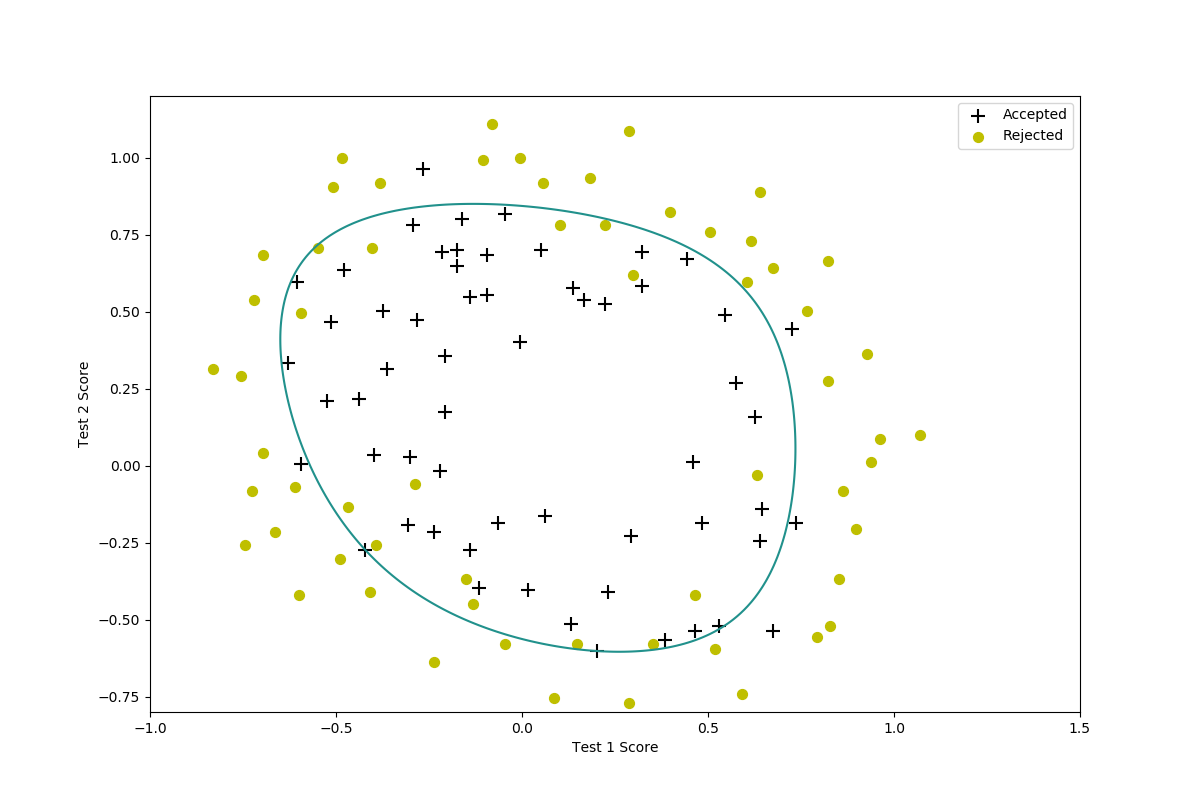
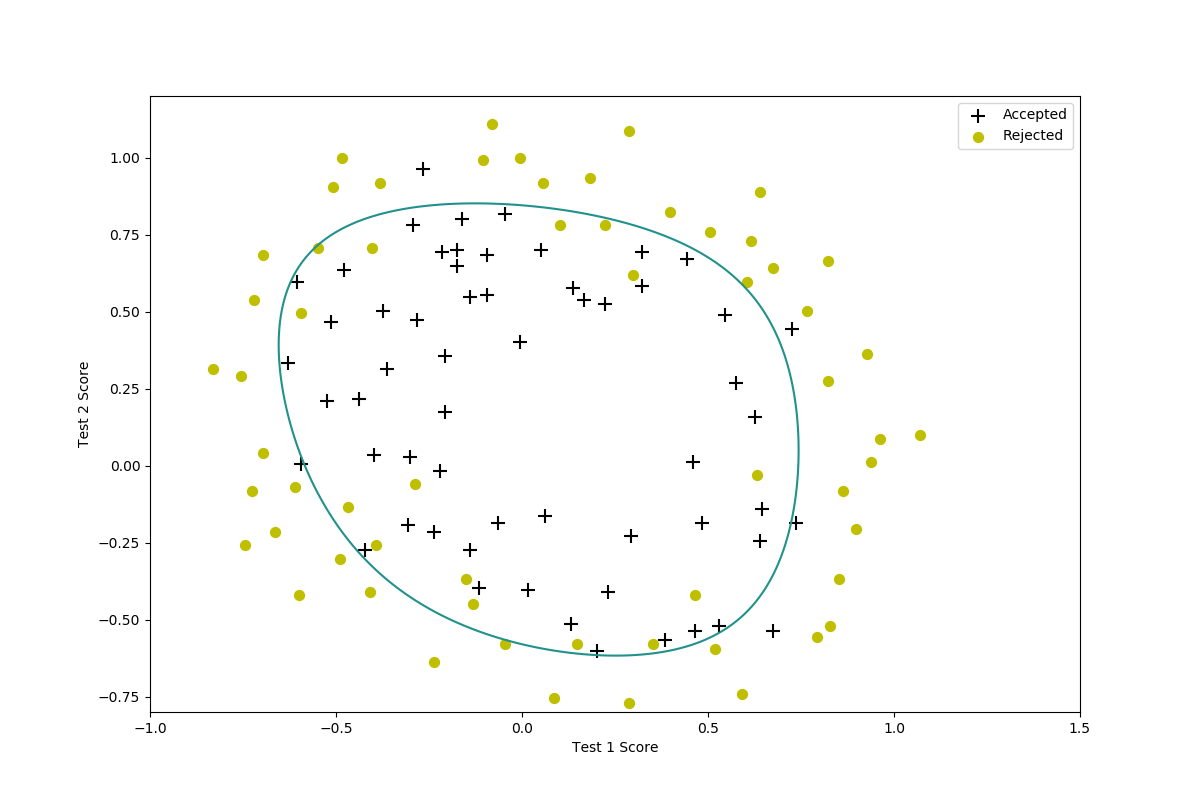
updata NG EX2-2

diff --git a/2020/11/06/NG机器学习EX2-逻辑回归2/index.html b/2020/11/06/NG机器学习EX2-逻辑回归2/index.html
@@ -101,7 +101,7 @@
 <meta property="og:image" content="http://blog.tyfuu.net/images/4%20NG%20EX2/lambda=100.png">
 <meta property="og:image" content="http://blog.tyfuu.net/images/4%20NG%20EX2/lambda=1000.png">
 <meta property="article:published_time" content="2020-11-06T02:12:32.000Z">
-<meta property="article:modified_time" content="2020-11-06T12:13:43.033Z">
+<meta property="article:modified_time" content="2020-11-07T07:55:39.412Z">
 <meta property="article:author" content="符说八道">
 <meta property="article:tag" content="分类">
 <meta name="twitter:card" content="summary">
@@ -498,7 +498,7 @@
 <h3 id="计算代价函数和梯度"><a href="#计算代价函数和梯度" class="headerlink" title="计算代价函数和梯度"></a>计算代价函数和梯度</h3><p>sigmoid函数在第一个练习中已经实现了,现在我们需要做的,是更新代价函数和梯度,加入正则化项。<br>$J(\theta) = \frac{1}{m}\sum_{i=1}^{m}[-y^{i}log(h_{\theta}(X^{(i)}))-(1-y^{i})log(1-h_{\theta}(x^{(i)}))] + \frac{\lambda}{2m} \sum_{j=1}^{n}\theta_{j}^{2}$<br><figure class="highlight plain"><table><tr><td class="gutter"><pre><span class="line">1</span><br><span class="line">2</span><br><span class="line">3</span><br><span class="line">4</span><br><span class="line">5</span><br><span class="line">6</span><br><span class="line">7</span><br></pre></td><td class="code"><pre><span class="line">def costFunction(theta,X,y,lambdaa):</span><br><span class="line"></span><br><span class="line">    h &#x3D; sigmoid(X.dot(theta.T))</span><br><span class="line">    J &#x3D;(- y.T .dot(np.log(h))-(1-y).T.dot(np.log(1-h) ))&#x2F;len(X)</span><br><span class="line">    reg &#x3D; theta[2:].T .dot(theta[2:] )* lambdaa &#x2F; (2*len(X))</span><br><span class="line">    J &#x3D; J + reg</span><br><span class="line">    return J</span><br></pre></td></tr></table></figure></p>
 <p>$\frac{\partial J(\theta)}{\partial \theta_{0}} = \frac{1}{m}\sum_{i=1}^{m}(h_{\theta}(x^{(i)})-y^{(i)})x_{0}^{(i)}$</p>
 <p>$\frac{\partial J(\theta)}{\partial \theta_{j=1,2…n}} = \frac{1}{m}\sum_{i=1}^{m}(h_{\theta}(x^{(i)})-y^{(i)})x_{j}^{(i)} + \frac{\lambda}{m}\theta_{j}$</p>
-<figure class="highlight plain"><table><tr><td class="gutter"><pre><span class="line">1</span><br><span class="line">2</span><br><span class="line">3</span><br><span class="line">4</span><br><span class="line">5</span><br><span class="line">6</span><br><span class="line">7</span><br></pre></td><td class="code"><pre><span class="line">def gradFunction(theta,X,y,lambdaa):</span><br><span class="line">    grad &#x3D; np.zeros(len(theta))</span><br><span class="line">    theta &#x3D; theta.reshape(1,len(theta))</span><br><span class="line">    h &#x3D; sigmoid(X.dot(theta.T))</span><br><span class="line">    reg &#x3D; lambdaa * theta &#x2F; len(X)</span><br><span class="line">    grad &#x3D; X.T.dot ((h-y)) &#x2F; len(X) + reg.T</span><br><span class="line">    return grad</span><br></pre></td></tr></table></figure>
+<figure class="highlight plain"><table><tr><td class="gutter"><pre><span class="line">1</span><br><span class="line">2</span><br><span class="line">3</span><br><span class="line">4</span><br><span class="line">5</span><br><span class="line">6</span><br><span class="line">7</span><br><span class="line">8</span><br></pre></td><td class="code"><pre><span class="line">def gradFunction(theta,X,y,lambdaa):</span><br><span class="line">    grad &#x3D; np.zeros(len(theta))</span><br><span class="line">    theta &#x3D; theta.reshape(1,len(theta))</span><br><span class="line">    h &#x3D; sigmoid(X.dot(theta.T))</span><br><span class="line">    reg &#x3D; lambdaa * theta &#x2F; len(X)</span><br><span class="line">    reg[0][0] &#x3D; 0</span><br><span class="line">    grad &#x3D; X.T.dot ((h-y)) &#x2F; len(X) + reg.T</span><br><span class="line">    return grad</span><br></pre></td></tr></table></figure>
 <h3 id="predict"><a href="#predict" class="headerlink" title="predict"></a>predict</h3><figure class="highlight plain"><table><tr><td class="gutter"><pre><span class="line">1</span><br><span class="line">2</span><br><span class="line">3</span><br><span class="line">4</span><br><span class="line">5</span><br><span class="line">6</span><br><span class="line">7</span><br><span class="line">8</span><br><span class="line">9</span><br><span class="line">10</span><br><span class="line">11</span><br></pre></td><td class="code"><pre><span class="line">def predict(theta,X):</span><br><span class="line">    probality &#x3D; sigmoid(X.dot(theta.T))</span><br><span class="line">    return [1 if x &gt;&#x3D; 0.5 else 0 for x in probality]</span><br><span class="line"></span><br><span class="line">result2 &#x3D; opt.fmin_tnc(func&#x3D;costFunction, x0&#x3D;theta2, fprime&#x3D;gradFunction, args&#x3D;(X2, y2, lambdaa))</span><br><span class="line">theta_min &#x3D; result2[0]</span><br><span class="line">predictions &#x3D; predict(theta_min,X2)</span><br><span class="line">correct &#x3D; [1 if (a &#x3D;&#x3D; 1 and b &#x3D;&#x3D; 1) or (a &#x3D;&#x3D; 0 and  b &#x3D;&#x3D; 0) else 0 for (a,b) in zip(predictions,y2)]</span><br><span class="line"></span><br><span class="line">accuracy &#x3D; sum(map(int,correct)) * 100 &#x2F;len(correct)</span><br><span class="line">print(&#39;accuracy &#x3D; &#123;0:.2f&#125;%&#39;.format(accuracy))</span><br></pre></td></tr></table></figure>
 <p>算出来的结果为:<br><figure class="highlight plain"><table><tr><td class="gutter"><pre><span class="line">1</span><br></pre></td><td class="code"><pre><span class="line">accuracy &#x3D; 83.05%</span><br></pre></td></tr></table></figure></p>
 <h3 id="decision-boundary"><a href="#decision-boundary" class="headerlink" title="decision boundary"></a>decision boundary</h3><p>下面代码有些不好理解:<br><figure class="highlight plain"><table><tr><td class="gutter"><pre><span class="line">1</span><br><span class="line">2</span><br><span class="line">3</span><br><span class="line">4</span><br><span class="line">5</span><br><span class="line">6</span><br><span class="line">7</span><br><span class="line">8</span><br><span class="line">9</span><br><span class="line">10</span><br><span class="line">11</span><br><span class="line">12</span><br><span class="line">13</span><br><span class="line">14</span><br><span class="line">15</span><br><span class="line">16</span><br><span class="line">17</span><br><span class="line">18</span><br><span class="line">19</span><br><span class="line">20</span><br><span class="line">21</span><br><span class="line">22</span><br></pre></td><td class="code"><pre><span class="line">#返回num个均匀分布的样本，在[start, stop]</span><br><span class="line">x &#x3D; np.linspace(-1, 1.5, 250)</span><br><span class="line"></span><br><span class="line">#   [X,Y] &#x3D; meshgrid(x,y)</span><br><span class="line"># 将向量x和y定义的区域转换成矩阵X和Y,</span><br><span class="line"># 其中矩阵X的行向量是向量x的简单复制，而矩阵Y的列向量是向量y的简单复制</span><br><span class="line"># 假设x是长度为m的向量，y是长度为n的向量，则最终生成的矩阵X和Y的维度都是 nm（注意不是mn）</span><br><span class="line"></span><br><span class="line">xx, yy &#x3D; np.meshgrid(x, x)</span><br><span class="line"></span><br><span class="line">#下面计算这250个点的z值(也就是等高线的z值,z值相同的连成线,就可以形成边界)</span><br><span class="line">z &#x3D; np.array(mapFeature(xx.ravel(), yy.ravel(), 6))</span><br><span class="line">#上面的xx.ravel()和yy.ravel()都是250*250&#x3D;62500维度的向量,将他们映射为(62500,28)</span><br><span class="line">z &#x3D; z @ theta_min # z是(62500,1)</span><br><span class="line">z &#x3D; z.reshape(xx.shape)</span><br><span class="line">#reshape后,变成了(250,250),这样相当于有250个点的z值</span><br><span class="line"></span><br><span class="line">plotData(data2)</span><br><span class="line"># contour画出等高线</span><br><span class="line">plt.contour(xx, yy, z, 0)</span><br><span class="line">plt.ylim(-.8, 1.2)</span><br><span class="line">plt.show()</span><br></pre></td></tr></table></figure><br>画出来的决策边界长下面这样:</p>
@@ -516,7 +516,7 @@
 </li>
 </ul>
 <p>当$lambda=100$否则$lambda=1000$ 实际上已经发生了欠拟合。</p>
-<h3 id="完整代码"><a href="#完整代码" class="headerlink" title="完整代码"></a>完整代码</h3><figure class="highlight plain"><table><tr><td class="gutter"><pre><span class="line">1</span><br><span class="line">2</span><br><span class="line">3</span><br><span class="line">4</span><br><span class="line">5</span><br><span class="line">6</span><br><span class="line">7</span><br><span class="line">8</span><br><span class="line">9</span><br><span class="line">10</span><br><span class="line">11</span><br><span class="line">12</span><br><span class="line">13</span><br><span class="line">14</span><br><span class="line">15</span><br><span class="line">16</span><br><span class="line">17</span><br><span class="line">18</span><br><span class="line">19</span><br><span class="line">20</span><br><span class="line">21</span><br><span class="line">22</span><br><span class="line">23</span><br><span class="line">24</span><br><span class="line">25</span><br><span class="line">26</span><br><span class="line">27</span><br><span class="line">28</span><br><span class="line">29</span><br><span class="line">30</span><br><span class="line">31</span><br><span class="line">32</span><br><span class="line">33</span><br><span class="line">34</span><br><span class="line">35</span><br><span class="line">36</span><br><span class="line">37</span><br><span class="line">38</span><br><span class="line">39</span><br><span class="line">40</span><br><span class="line">41</span><br><span class="line">42</span><br><span class="line">43</span><br><span class="line">44</span><br><span class="line">45</span><br><span class="line">46</span><br><span class="line">47</span><br><span class="line">48</span><br><span class="line">49</span><br><span class="line">50</span><br><span class="line">51</span><br><span class="line">52</span><br><span class="line">53</span><br><span class="line">54</span><br><span class="line">55</span><br><span class="line">56</span><br><span class="line">57</span><br><span class="line">58</span><br><span class="line">59</span><br><span class="line">60</span><br><span class="line">61</span><br><span class="line">62</span><br><span class="line">63</span><br><span class="line">64</span><br><span class="line">65</span><br><span class="line">66</span><br><span class="line">67</span><br><span class="line">68</span><br><span class="line">69</span><br><span class="line">70</span><br><span class="line">71</span><br><span class="line">72</span><br><span class="line">73</span><br><span class="line">74</span><br><span class="line">75</span><br><span class="line">76</span><br><span class="line">77</span><br><span class="line">78</span><br><span class="line">79</span><br><span class="line">80</span><br><span class="line">81</span><br><span class="line">82</span><br><span class="line">83</span><br><span class="line">84</span><br><span class="line">85</span><br><span class="line">86</span><br><span class="line">87</span><br><span class="line">88</span><br><span class="line">89</span><br><span class="line">90</span><br><span class="line">91</span><br></pre></td><td class="code"><pre><span class="line">import numpy as np </span><br><span class="line">import pandas as pd </span><br><span class="line">import matplotlib.pyplot as plt </span><br><span class="line">import scipy.optimize as opt </span><br><span class="line"></span><br><span class="line">def sigmoid(z):</span><br><span class="line">    return 1&#x2F;(1+np.exp(-z))</span><br><span class="line"></span><br><span class="line">def costFunction(theta,X,y,lambdaa):</span><br><span class="line">    h &#x3D; sigmoid(X.dot(theta.T))</span><br><span class="line">    J &#x3D;(- y.T .dot(np.log(h))-(1-y).T.dot(np.log(1-h) ))&#x2F;len(X)</span><br><span class="line">    reg &#x3D; theta[2:].T .dot(theta[2:] )* lambdaa &#x2F; (2*len(X))</span><br><span class="line">    J &#x3D; J + reg</span><br><span class="line">    return J</span><br><span class="line"></span><br><span class="line">def gradFunction(theta,X,y,lambdaa):</span><br><span class="line">    grad &#x3D; np.zeros(len(theta))</span><br><span class="line">    theta &#x3D; theta.reshape(1,len(theta))</span><br><span class="line">    h &#x3D; sigmoid(X.dot(theta.T))</span><br><span class="line">    reg &#x3D; lambdaa * theta &#x2F; len(X)</span><br><span class="line">    grad &#x3D; X.T.dot ((h-y)) &#x2F; len(X) + reg.T</span><br><span class="line">    return grad</span><br><span class="line"></span><br><span class="line">def mapFeature(x1,x2,degree&#x3D;6):</span><br><span class="line">    # degree &#x3D; 6</span><br><span class="line">    data &#x3D; &#123;&#125;</span><br><span class="line">    for i in range(1,degree+1):</span><br><span class="line">        for j in range(0,i+1):</span><br><span class="line">            # data2[&#39;F&#39;+str(i)+str(j)] &#x3D; np.power(x1,i-j)*np.power(x2,j)</span><br><span class="line">            data[&quot;f&#123;&#125;&#123;&#125;&quot;.format(i - j, j)] &#x3D; np.power(x1, i - j) * np.power(x2, j)</span><br><span class="line">    data &#x3D; pd.DataFrame(data)</span><br><span class="line">    data.insert(0,&#39;Ones&#39;,1) </span><br><span class="line">    return data</span><br><span class="line"></span><br><span class="line"></span><br><span class="line">def predict(theta,X):</span><br><span class="line">    probality &#x3D; sigmoid(X.dot(theta.T))</span><br><span class="line">    return [1 if x &gt;&#x3D; 0.5 else 0 for x in probality]</span><br><span class="line">   </span><br><span class="line">def plotData(data2):</span><br><span class="line">    positive &#x3D; data2[data2[&#39;Accepted&#39;].isin([1])]</span><br><span class="line">    negative &#x3D; data2[data2[&#39;Accepted&#39;].isin([0])]</span><br><span class="line">    # print(positive)</span><br><span class="line"></span><br><span class="line">    fig,ax &#x3D; plt.subplots(figsize&#x3D;(12,8))</span><br><span class="line">    ax.scatter(positive[&#39;Test 1&#39;],positive[&#39;Test 2&#39;],s&#x3D;100,c&#x3D;&#39;black&#39;,marker&#x3D;&#39;+&#39;,label &#x3D; &#39;Accepted&#39;)</span><br><span class="line">    ax.scatter(negative[&#39;Test 1&#39;], negative[&#39;Test 2&#39;], s&#x3D;50, c&#x3D;&#39;y&#39;, marker&#x3D;&#39;o&#39;, label&#x3D;&#39;Rejected&#39;)</span><br><span class="line">    ax.legend()</span><br><span class="line">    ax.set_xlabel(&#39;Test 1 Score&#39;)</span><br><span class="line">    ax.set_ylabel(&#39;Test 2 Score&#39;)</span><br><span class="line">    # plt.show()</span><br><span class="line"></span><br><span class="line">def main():</span><br><span class="line">    path &#x3D; &#39;ex2data2.txt&#39;</span><br><span class="line">    data2 &#x3D; pd.read_csv(path,header&#x3D;None,names&#x3D;[&#39;Test 1&#39;,&#39;Test 2&#39;,&#39;Accepted&#39;])</span><br><span class="line">    print(data2.head())</span><br><span class="line">    # plotData(data2)</span><br><span class="line"></span><br><span class="line">    degree &#x3D; 6</span><br><span class="line">    x1 &#x3D; data2[&#39;Test 1&#39;]</span><br><span class="line">    x2 &#x3D; data2[&#39;Test 2&#39;]</span><br><span class="line">    </span><br><span class="line">    X2 &#x3D; np.array(mapFeature(x1,x2))</span><br><span class="line">    y2 &#x3D; np.array(data2.iloc[:,2:3])</span><br><span class="line">    theta2 &#x3D; np.zeros(X2.shape[1])</span><br><span class="line">    lambdaa &#x3D; 1</span><br><span class="line">    #lambdaa &#x3D; 1000</span><br><span class="line"></span><br><span class="line">    #print(costFunction(theta2,X2,y2,lambdaa))</span><br><span class="line">    #print(gradFunction(theta2,X2,y2,lambdaa))</span><br><span class="line">    result2 &#x3D; opt.fmin_tnc(func&#x3D;costFunction, x0&#x3D;theta2, fprime&#x3D;gradFunction, args&#x3D;(X2, y2, lambdaa))</span><br><span class="line"></span><br><span class="line">    theta_min &#x3D; result2[0]</span><br><span class="line">    predictions &#x3D; predict(theta_min,X2)</span><br><span class="line">    correct &#x3D; [1 if (a &#x3D;&#x3D; 1 and b &#x3D;&#x3D; 1) or (a &#x3D;&#x3D; 0 and  b &#x3D;&#x3D; 0) else 0 for (a,b) in zip(predictions,y2)]</span><br><span class="line">    </span><br><span class="line">    accuracy &#x3D; sum(map(int,correct)) * 100 &#x2F;len(correct)</span><br><span class="line">    print(&#39;accuracy &#x3D; &#123;0:.2f&#125;%&#39;.format(accuracy)) </span><br><span class="line"></span><br><span class="line">    x &#x3D; np.linspace(-1, 1.5, 250)</span><br><span class="line">    xx, yy &#x3D; np.meshgrid(x, x)</span><br><span class="line">    z &#x3D; np.array(mapFeature(xx.ravel(), yy.ravel(), 6))</span><br><span class="line">    z &#x3D; z @ theta_min</span><br><span class="line">    z &#x3D; z.reshape(xx.shape)</span><br><span class="line"></span><br><span class="line">    plotData(data2)</span><br><span class="line">    plt.contour(xx, yy, z, 0)</span><br><span class="line">    plt.ylim(-.8, 1.2)</span><br><span class="line">    plt.show()</span><br><span class="line">    </span><br><span class="line">main()</span><br></pre></td></tr></table></figure>
+<h3 id="完整代码"><a href="#完整代码" class="headerlink" title="完整代码"></a>完整代码</h3><figure class="highlight plain"><table><tr><td class="gutter"><pre><span class="line">1</span><br><span class="line">2</span><br><span class="line">3</span><br><span class="line">4</span><br><span class="line">5</span><br><span class="line">6</span><br><span class="line">7</span><br><span class="line">8</span><br><span class="line">9</span><br><span class="line">10</span><br><span class="line">11</span><br><span class="line">12</span><br><span class="line">13</span><br><span class="line">14</span><br><span class="line">15</span><br><span class="line">16</span><br><span class="line">17</span><br><span class="line">18</span><br><span class="line">19</span><br><span class="line">20</span><br><span class="line">21</span><br><span class="line">22</span><br><span class="line">23</span><br><span class="line">24</span><br><span class="line">25</span><br><span class="line">26</span><br><span class="line">27</span><br><span class="line">28</span><br><span class="line">29</span><br><span class="line">30</span><br><span class="line">31</span><br><span class="line">32</span><br><span class="line">33</span><br><span class="line">34</span><br><span class="line">35</span><br><span class="line">36</span><br><span class="line">37</span><br><span class="line">38</span><br><span class="line">39</span><br><span class="line">40</span><br><span class="line">41</span><br><span class="line">42</span><br><span class="line">43</span><br><span class="line">44</span><br><span class="line">45</span><br><span class="line">46</span><br><span class="line">47</span><br><span class="line">48</span><br><span class="line">49</span><br><span class="line">50</span><br><span class="line">51</span><br><span class="line">52</span><br><span class="line">53</span><br><span class="line">54</span><br><span class="line">55</span><br><span class="line">56</span><br><span class="line">57</span><br><span class="line">58</span><br><span class="line">59</span><br><span class="line">60</span><br><span class="line">61</span><br><span class="line">62</span><br><span class="line">63</span><br><span class="line">64</span><br><span class="line">65</span><br><span class="line">66</span><br><span class="line">67</span><br><span class="line">68</span><br><span class="line">69</span><br><span class="line">70</span><br><span class="line">71</span><br><span class="line">72</span><br><span class="line">73</span><br><span class="line">74</span><br><span class="line">75</span><br><span class="line">76</span><br><span class="line">77</span><br><span class="line">78</span><br><span class="line">79</span><br><span class="line">80</span><br><span class="line">81</span><br><span class="line">82</span><br><span class="line">83</span><br><span class="line">84</span><br><span class="line">85</span><br><span class="line">86</span><br><span class="line">87</span><br><span class="line">88</span><br><span class="line">89</span><br><span class="line">90</span><br><span class="line">91</span><br><span class="line">92</span><br></pre></td><td class="code"><pre><span class="line">import numpy as np </span><br><span class="line">import pandas as pd </span><br><span class="line">import matplotlib.pyplot as plt </span><br><span class="line">import scipy.optimize as opt </span><br><span class="line"></span><br><span class="line">def sigmoid(z):</span><br><span class="line">    return 1&#x2F;(1+np.exp(-z))</span><br><span class="line"></span><br><span class="line">def costFunction(theta,X,y,lambdaa):</span><br><span class="line">    h &#x3D; sigmoid(X.dot(theta.T))</span><br><span class="line">    J &#x3D;(- y.T .dot(np.log(h))-(1-y).T.dot(np.log(1-h) ))&#x2F;len(X)</span><br><span class="line">    reg &#x3D; theta[2:].T .dot(theta[2:] )* lambdaa &#x2F; (2*len(X))</span><br><span class="line">    J &#x3D; J + reg</span><br><span class="line">    return J</span><br><span class="line"></span><br><span class="line">def gradFunction(theta,X,y,lambdaa):</span><br><span class="line">    grad &#x3D; np.zeros(len(theta))</span><br><span class="line">    theta &#x3D; theta.reshape(1,len(theta))</span><br><span class="line">    h &#x3D; sigmoid(X.dot(theta.T))</span><br><span class="line">    reg &#x3D; lambdaa * theta &#x2F; len(X)</span><br><span class="line">    reg[0][0] &#x3D; 0</span><br><span class="line">    grad &#x3D; X.T.dot ((h-y)) &#x2F; len(X) + reg.T</span><br><span class="line">    return grad</span><br><span class="line"></span><br><span class="line">def mapFeature(x1,x2,degree&#x3D;6):</span><br><span class="line">    # degree &#x3D; 6</span><br><span class="line">    data &#x3D; &#123;&#125;</span><br><span class="line">    for i in range(1,degree+1):</span><br><span class="line">        for j in range(0,i+1):</span><br><span class="line">            # data2[&#39;F&#39;+str(i)+str(j)] &#x3D; np.power(x1,i-j)*np.power(x2,j)</span><br><span class="line">            data[&quot;f&#123;&#125;&#123;&#125;&quot;.format(i - j, j)] &#x3D; np.power(x1, i - j) * np.power(x2, j)</span><br><span class="line">    data &#x3D; pd.DataFrame(data)</span><br><span class="line">    data.insert(0,&#39;Ones&#39;,1) </span><br><span class="line">    return data</span><br><span class="line"></span><br><span class="line"></span><br><span class="line">def predict(theta,X):</span><br><span class="line">    probality &#x3D; sigmoid(X.dot(theta.T))</span><br><span class="line">    return [1 if x &gt;&#x3D; 0.5 else 0 for x in probality]</span><br><span class="line">   </span><br><span class="line">def plotData(data2):</span><br><span class="line">    positive &#x3D; data2[data2[&#39;Accepted&#39;].isin([1])]</span><br><span class="line">    negative &#x3D; data2[data2[&#39;Accepted&#39;].isin([0])]</span><br><span class="line">    # print(positive)</span><br><span class="line"></span><br><span class="line">    fig,ax &#x3D; plt.subplots(figsize&#x3D;(12,8))</span><br><span class="line">    ax.scatter(positive[&#39;Test 1&#39;],positive[&#39;Test 2&#39;],s&#x3D;100,c&#x3D;&#39;black&#39;,marker&#x3D;&#39;+&#39;,label &#x3D; &#39;Accepted&#39;)</span><br><span class="line">    ax.scatter(negative[&#39;Test 1&#39;], negative[&#39;Test 2&#39;], s&#x3D;50, c&#x3D;&#39;y&#39;, marker&#x3D;&#39;o&#39;, label&#x3D;&#39;Rejected&#39;)</span><br><span class="line">    ax.legend()</span><br><span class="line">    ax.set_xlabel(&#39;Test 1 Score&#39;)</span><br><span class="line">    ax.set_ylabel(&#39;Test 2 Score&#39;)</span><br><span class="line">    # plt.show()</span><br><span class="line"></span><br><span class="line">def main():</span><br><span class="line">    path &#x3D; &#39;ex2data2.txt&#39;</span><br><span class="line">    data2 &#x3D; pd.read_csv(path,header&#x3D;None,names&#x3D;[&#39;Test 1&#39;,&#39;Test 2&#39;,&#39;Accepted&#39;])</span><br><span class="line">    print(data2.head())</span><br><span class="line">    # plotData(data2)</span><br><span class="line"></span><br><span class="line">    degree &#x3D; 6</span><br><span class="line">    x1 &#x3D; data2[&#39;Test 1&#39;]</span><br><span class="line">    x2 &#x3D; data2[&#39;Test 2&#39;]</span><br><span class="line">    </span><br><span class="line">    X2 &#x3D; np.array(mapFeature(x1,x2))</span><br><span class="line">    y2 &#x3D; np.array(data2.iloc[:,2:3])</span><br><span class="line">    theta2 &#x3D; np.zeros(X2.shape[1])</span><br><span class="line">    lambdaa &#x3D; 1</span><br><span class="line">    #lambdaa &#x3D; 1000</span><br><span class="line"></span><br><span class="line">    #print(costFunction(theta2,X2,y2,lambdaa))</span><br><span class="line">    #print(gradFunction(theta2,X2,y2,lambdaa))</span><br><span class="line">    result2 &#x3D; opt.fmin_tnc(func&#x3D;costFunction, x0&#x3D;theta2, fprime&#x3D;gradFunction, args&#x3D;(X2, y2, lambdaa))</span><br><span class="line"></span><br><span class="line">    theta_min &#x3D; result2[0]</span><br><span class="line">    predictions &#x3D; predict(theta_min,X2)</span><br><span class="line">    correct &#x3D; [1 if (a &#x3D;&#x3D; 1 and b &#x3D;&#x3D; 1) or (a &#x3D;&#x3D; 0 and  b &#x3D;&#x3D; 0) else 0 for (a,b) in zip(predictions,y2)]</span><br><span class="line">    </span><br><span class="line">    accuracy &#x3D; sum(map(int,correct)) * 100 &#x2F;len(correct)</span><br><span class="line">    print(&#39;accuracy &#x3D; &#123;0:.2f&#125;%&#39;.format(accuracy)) </span><br><span class="line"></span><br><span class="line">    x &#x3D; np.linspace(-1, 1.5, 250)</span><br><span class="line">    xx, yy &#x3D; np.meshgrid(x, x)</span><br><span class="line">    z &#x3D; np.array(mapFeature(xx.ravel(), yy.ravel(), 6))</span><br><span class="line">    z &#x3D; z @ theta_min</span><br><span class="line">    z &#x3D; z.reshape(xx.shape)</span><br><span class="line"></span><br><span class="line">    plotData(data2)</span><br><span class="line">    plt.contour(xx, yy, z, 0)</span><br><span class="line">    plt.ylim(-.8, 1.2)</span><br><span class="line">    plt.show()</span><br><span class="line">    </span><br><span class="line">main()</span><br></pre></td></tr></table></figure>
 <h2 id="References"><a href="#References" class="headerlink" title="References"></a>References</h2><ol>
 <li><a href="https://github.com/fengdu78/Coursera-ML-AndrewNg-Notes" target="_blank" rel="noopener">黄海广博士的笔记GitHub</a></li>
 <li><a href="https://blog.csdn.net/Cowry5/article/details/80247569" target="_blank" rel="noopener">边界绘制参考了这篇csdn博客</a></li>
